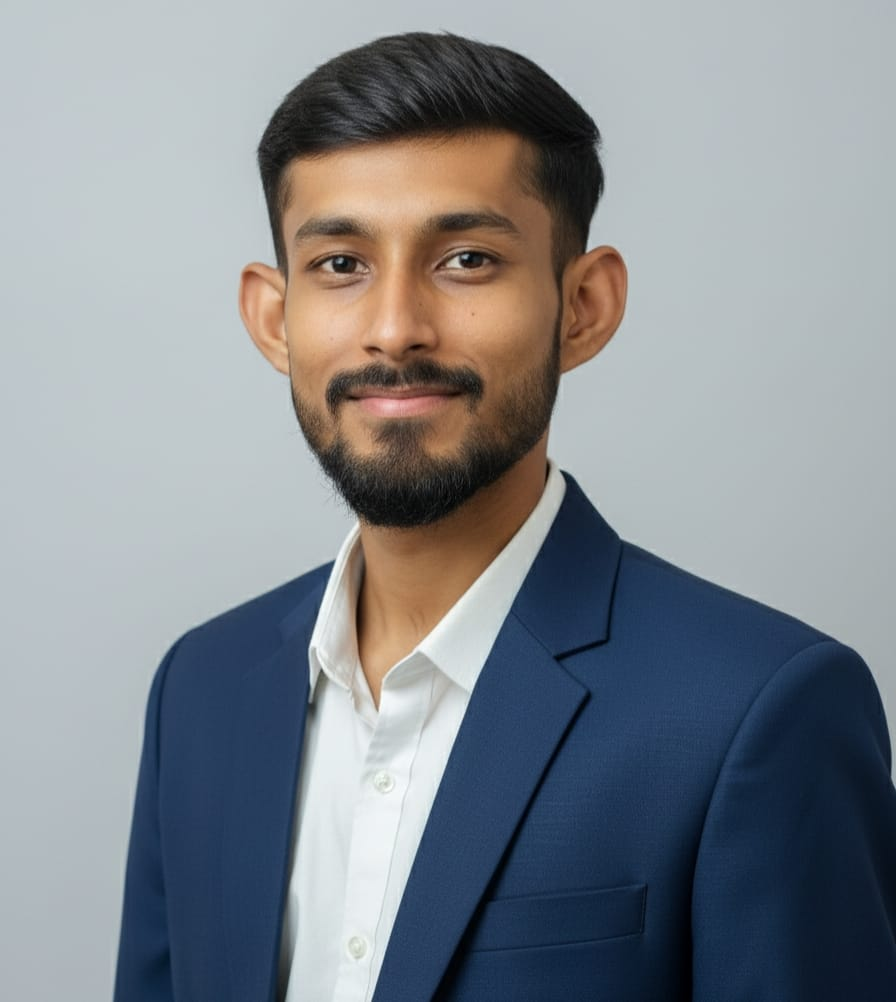
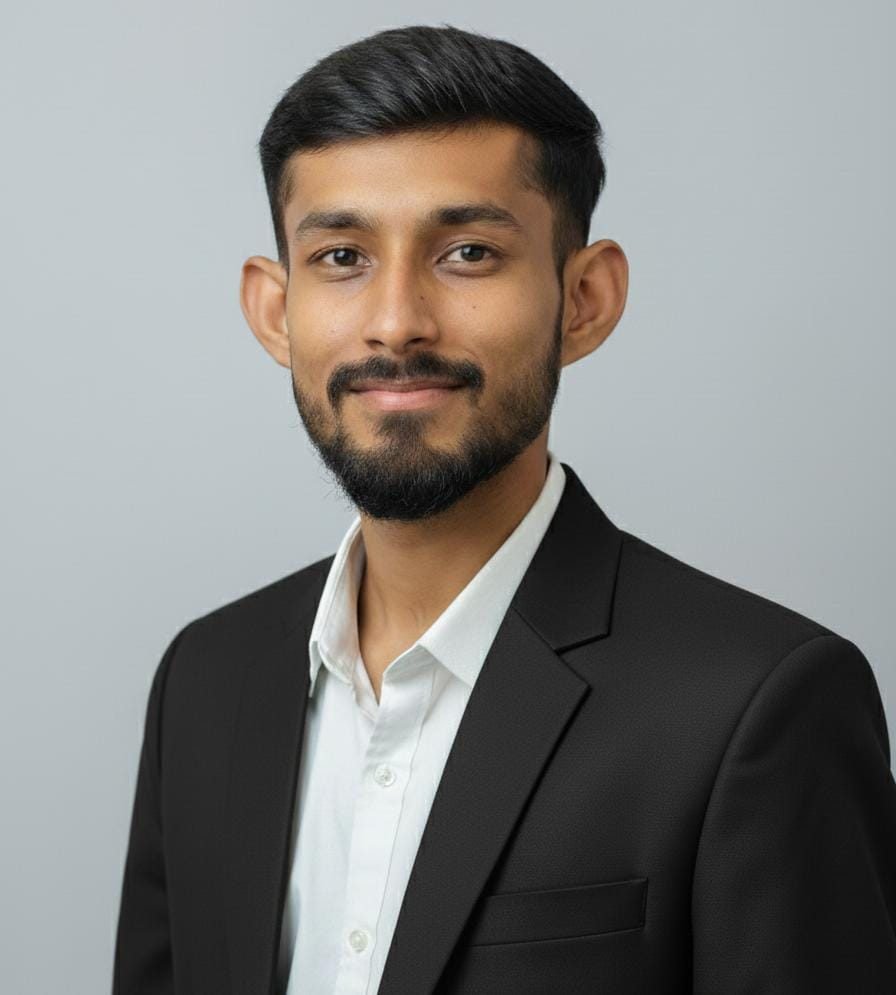
feat: replace About photo with new image (Ayush raj pic 2.jpg) and cache-bust v=3

diff --git a/index.html b/index.html
@@ -38,7 +38,7 @@
         <div class="container">
             <div class="row">
                 <div class="about-col-1">
-                 <img src="about-photo.jpg?v=2" alt="Ayush Raj Photo">
+                 <img src="about-photo.jpg?v=3" alt="Ayush Raj Photo">
                 </div>
                 <div class="about-col-2">
                    <h1 class="subtitle">About me</h1>
